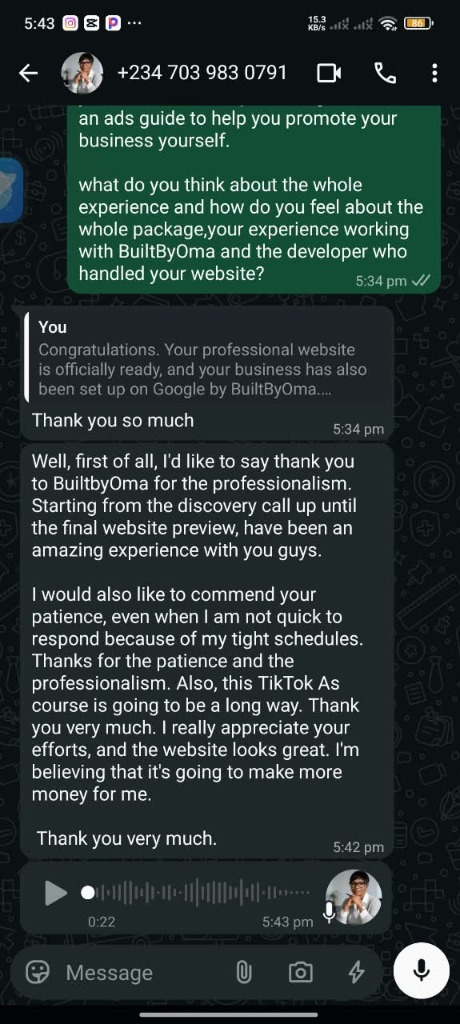
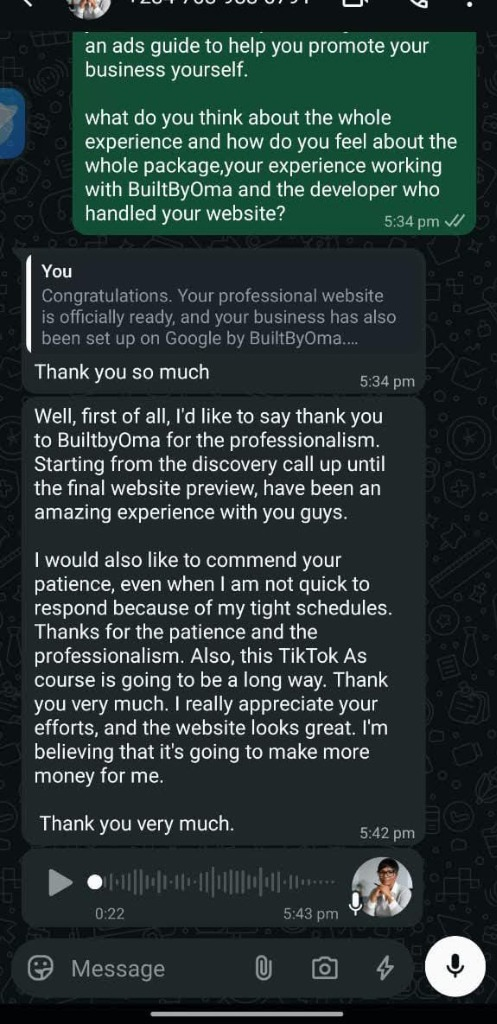
Swap third testimonial image, update prefilled WhatsApp price value, and update Eucharia project link destination

diff --git a/index.html b/index.html
@@ -304,7 +304,7 @@
             <div class="project-card">
               <div class="project-image">
                 <img src="images/project-fashion.jpg?v=3" alt="Eucharia Luxury Hair mockup" width="400" height="267" loading="lazy">
-                <a href="https://eucharia-luxury-hair.netlify.app/" target="_blank" class="project-overlay">
+                <a href="https://www.eucharialuxuryhair.com.ng/" target="_blank" class="project-overlay">
                   <span class="btn btn-primary btn-overlay">Visit Site</span>
                 </a>
               </div>

diff --git a/app.js b/app.js
@@ -149,7 +149,7 @@ function initContactForm() {
     
     let message = `Hello, my name is ${businessName.value.trim()}.\n`;
     message += `I own a business that offers ${businessType.value.trim()}.\n`;
-    message += `I would like to claim the ₦80,000 Business Launch Package.\n\n`;
+    message += `I would like to claim the ₦90,000 Business Launch Package.\n\n`;
     message += `Reason for getting a website:\n${websiteReason.value.trim()}\n\n`;
     
     if (emailAddress.value.trim()) {
